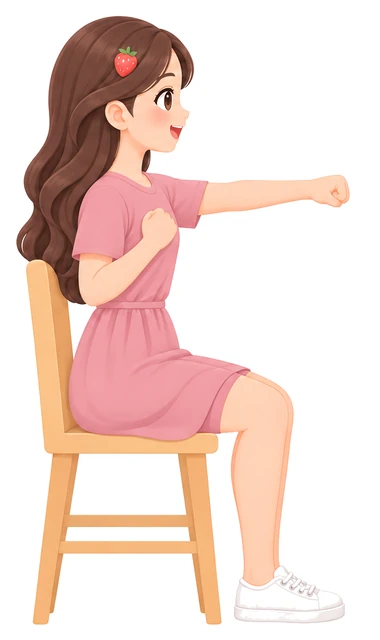
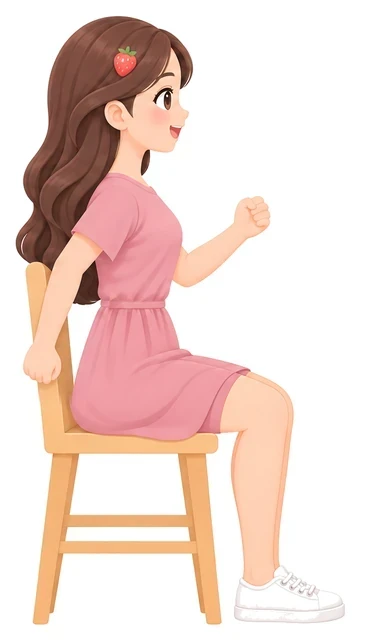
抬膝踏步、出拳、腳尖腳跟換成真正兩格動作，拿掉搖晃

diff --git a/index.html b/index.html
@@ -1022,9 +1022,9 @@ const SEATED=[
 ];
 const ALL_R=[...ROUTINES,...EXTRA,...SEATED];
 /* 已有插畫的動作：img/frames/動作-a.webp、-b.webp。新增時在這裡加一行 */
-// smarch spunch stoe scircle：兩格幾乎一樣，重畫前用 anim 讓插圖本身動（bob 上下、thrust 往前、rock 前後點、lift 上抬）
+// smarch／stoe 起始格借用 skneehug-a、spunch 起始格由 smarch 上半身合成（原檔在 備份/_backup_20261121_起身小花園坐姿圖）；scircle 兩格太像，暫用 anim lift
 const IMGS={ankle:{},legext:{},sitstand:{},hamstring:{},march:{bob:true},heel:{},side:{},wallpush:{},calf:{},quad:{},chin:{},shoulder:{},neck:{},reach:{},palm:{},bridge:{},slr:{},
-  smarch:{anim:'bob'},spunch:{anim:'thrust'},stoe:{anim:'rock'},skneehug:{},scat:{},slean:{},stwist:{},sbend:{},scircle:{anim:'lift'},sopen:{},swrist:{}};
+  smarch:{},spunch:{},stoe:{},skneehug:{},scat:{},slean:{},stwist:{},sbend:{},scircle:{anim:'lift'},sopen:{},swrist:{}};
 const POT=i=>`img/frames/pot-${i}.webp`;
 function potStage(c,g){if(c<=0)return 0;if(c<=2)return 1;if(c<Math.ceil(g/2)+1)return 2;if(c<g-1)return 3;if(c<g)return 4;return 5}
 const figOf=(r)=>r.fig||((r.steps.find(s=>IMGS[s[0]])||[])[0])||r.steps[r.id==='r3'?4:0][0];
